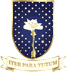
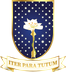
feat: brasão em alta resolução, selo no rodapé e crédito de autoria

diff --git a/src/styles/base.css b/src/styles/base.css
@@ -2094,6 +2094,55 @@ button {
   color: var(--tinta-suave);
 }
 
+/*
+ * O selo do rodapé: o brasão em silhueta, fechando a página.
+ *
+ * Duas artes, e não uma pintada por CSS: o Perez mandou o branco e o preto
+ * prontos, e o desenho deles não é o colorido dessaturado — a silhueta tem
+ * traço próprio. O preto serve o tema claro e o branco o escuro.
+ *
+ * A troca segue os mesmos seletores do tema.css, e não só a consulta de
+ * mídia: o site tem botão de tema, e quem o usa para forçar o claro num
+ * sistema escuro receberia um selo branco sobre papel claro, invisível.
+ *
+ * Como fundo, o navegador baixa só a arte do tema em uso. Como <img>, viriam
+ * as duas.
+ */
+.rodape__selo {
+  display: block;
+  width: 3.75rem;
+  /* a proporção do arquivo, 200x217 */
+  aspect-ratio: 200 / 217;
+  margin: 2rem auto 0;
+  background: center / contain no-repeat url("/brasao-escuro-7569753f.webp");
+  opacity: 0.4;
+}
+
+@media (prefers-color-scheme: dark) {
+  :root:not([data-theme="light"]) .rodape__selo {
+    background-image: url("/brasao-claro-7c64c1c8.webp");
+    opacity: 0.32;
+  }
+}
+
+:root[data-theme="dark"] .rodape__selo {
+  background-image: url("/brasao-claro-7c64c1c8.webp");
+  opacity: 0.32;
+}
+
+/*
+ * O crédito de quem fez o site. Última linha, menor que tudo, e sem o
+ * dourado da marca: é informação de colofão, não assinatura de dono.
+ */
+.rodape__credito {
+  margin-top: 1.1rem;
+  font-family: var(--sem-serifa);
+  font-size: 0.68rem;
+  letter-spacing: 0.02em;
+  color: var(--tinta-suave);
+  opacity: 0.8;
+}
+
 /* ---------------- telas maiores ---------------- */
 
 @media (min-width: 46rem) {
@@ -3748,9 +3797,9 @@ button {
  * direita — os quatro textos inteiros passam bem da altura dele, e sem isso a
  * quarta caixa ficava longe do brasão de onde a linha sai.
  *
- * O tamanho tem teto honesto: o arquivo tem 331px de largura, e o brasão aqui
- * vai a 24rem. Em tela comum isso já é ampliar 1,16 vez; em tela de alta
- * densidade, mais de duas. Um original maior, ou vetorial, resolveria.
+ * O tamanho tem teto honesto: o arquivo tem 572px de largura, e o brasão aqui
+ * vai a 24rem, ou 480px na raiz de 20px. Em tela comum sobra; em tela de alta
+ * densidade ainda falta, porque 2x pediriam 960. Só o vetorial resolve de vez.
  */
 @media (min-width: 56rem) {
   .brasao-comentado {

diff --git a/src/components/Rodape.tsx b/src/components/Rodape.tsx
@@ -5,10 +5,12 @@ export function Rodape({
   paragrafos,
   marca,
   lema,
+  credito,
 }: {
   paragrafos: string[];
   marca: string;
   lema: string;
+  credito?: string;
 }) {
   return (
     <footer className="rodape">
@@ -20,12 +22,29 @@ export function Rodape({
           <TextoRico texto={paragrafo} />
         </p>
       ))}
+      {/*
+        O selo que fecha a página, em silhueta, como a marca do impressor no
+        fim de um livro. É o único lugar do site onde o brasão aparece em uma
+        cor só: aqui ele assina, não identifica, e a versão colorida já está
+        no alto de toda página.
+
+        Decorativo de verdade, então vai como fundo e fica fora da árvore de
+        acessibilidade: quem usa leitor de tela já ouviu o brasão no
+        cabeçalho, e ouvi-lo de novo no rodapé seria repetição. Fundo também
+        é o que faz o navegador baixar só a versão do tema em uso.
+      */}
+      <span className="rodape__selo" aria-hidden="true" />
       <p className="rodape__marca">
         {marca}
         <span className="rodape__lema" lang="la">
           {lema}
         </span>
       </p>
+      {credito && (
+        <p className="rodape__credito">
+          <TextoRico texto={credito} />
+        </p>
+      )}
     </footer>
   );
 }

diff --git a/src/components/Brasao.tsx b/src/components/Brasao.tsx
@@ -6,10 +6,10 @@
  * ícone da aba, que é onde 66px bastam.
  */
 const TAMANHOS = {
-  barra: { classe: "barra__brasao", arquivo: "/brasao-b7c45edf.webp", largura: 331, altura: 360 },
-  cabecalho: { classe: "cabecalho__brasao", arquivo: "/brasao-b7c45edf.webp", largura: 331, altura: 360 },
-  pagina: { classe: "cabecalho__brasao cabecalho__brasao--pagina", arquivo: "/brasao-b7c45edf.webp", largura: 331, altura: 360 },
-  menu: { classe: "menu__brasao", arquivo: "/brasao-b7c45edf.webp", largura: 331, altura: 360 },
+  barra: { classe: "barra__brasao", arquivo: "/brasao-9ea57f61.webp", largura: 572, altura: 620 },
+  cabecalho: { classe: "cabecalho__brasao", arquivo: "/brasao-9ea57f61.webp", largura: 572, altura: 620 },
+  pagina: { classe: "cabecalho__brasao cabecalho__brasao--pagina", arquivo: "/brasao-9ea57f61.webp", largura: 572, altura: 620 },
+  menu: { classe: "menu__brasao", arquivo: "/brasao-9ea57f61.webp", largura: 572, altura: 620 },
 } as const;
 
 /** Brasão do Apostolado: campo estrelado, lírio e o lema Iter para tutum. */

diff --git a/src/data/tipos.ts b/src/data/tipos.ts
@@ -170,6 +170,14 @@ export interface Site {
   marcaCurta: string;
   lema: string;
   rodape: string[];
+  /**
+   * Quem fez o site, numa linha, no fim do rodapé.
+   *
+   * Fica aqui, e não no código, porque é texto do site: o Apostolado pode
+   * reescrevê-lo pelo painel sem pedir nada a ninguém. Aceita a mesma
+   * marcação do resto, então o nome pode levar a algum lugar.
+   */
+  credito?: string;
   agendas: Agenda[];
   /** Os retratos da lateral das páginas, no computador. */
   lateral?: Retrato[];

diff --git a/src/components/BrasaoComentado.tsx b/src/components/BrasaoComentado.tsx
@@ -148,10 +148,10 @@ export function BrasaoComentado({ partes }: { partes: ParteDoBrasao[] }) {
         >
           <img
             className="brasao-comentado__imagem"
-            src="/brasao-b7c45edf.webp"
+            src="/brasao-9ea57f61.webp"
             alt="Brasão do Apostolado Nossa Senhora das Neves"
-            width={331}
-            height={360}
+            width={572}
+            height={620}
           />
           {partes.map((parte, i) => (
             <button

diff --git a/src/components/Moldura.tsx b/src/components/Moldura.tsx
@@ -104,7 +104,12 @@ export function Moldura({
         {rota?.padrao !== "/" && <Lateral />}
         <Trilha rota={rota} atual={titulo} />
         {children}
-        <Rodape paragrafos={site.rodape} marca={site.marca} lema={site.lema} />
+        <Rodape
+          paragrafos={site.rodape}
+          marca={site.marca}
+          lema={site.lema}
+          credito={site.credito}
+        />
       </main>
 
       <MenuPrincipal

diff --git a/ferramentas/brasao/gerar.py b/ferramentas/brasao/gerar.py
@@ -1,0 +1,97 @@
+#!/usr/bin/env python3
+# -*- coding: utf-8 -*-
+"""
+Gera os arquivos do brasão a partir dos originais que o Perez mandou.
+
+    python3 ferramentas/brasao/gerar.py <colorido.png> <branco.png> <preto.png>
+
+Três versões, e cada uma tem um lugar:
+
+- **colorido** — a marca do site. Barra, cabeçalho de toda página, menu e a
+  página do brasão, que é onde ele aparece maior.
+- **branco** e **preto** — o selo do rodapé, em silhueta. O branco serve o
+  tema escuro e o preto o claro; quem troca é o CSS, pelo mesmo seletor que
+  o `tema.css` usa, para acompanhar também o botão de tema e não só a
+  preferência do sistema.
+
+Os três originais vêm numa folha A4 com muita margem. O gerador recorta pela
+caixa do alfa, que é o desenho de verdade, e não por medida escolhida a olho.
+
+O nome leva a impressão do conteúdo, como as estampas: o cache é de um ano,
+e trocar a imagem tem de trocar o nome, senão o navegador de quem já visitou
+continua com a antiga.
+"""
+import hashlib, os, sys
+from PIL import Image
+
+AQUI = os.path.dirname(os.path.abspath(__file__))
+RAIZ = os.path.dirname(os.path.dirname(AQUI))
+PUBLICO = os.path.join(RAIZ, "public")
+
+# O selo do rodapé vai a 3,75rem. O pior caso real é o celular a 3x, onde a
+# raiz mede 17px: 3,75rem dão 64, e 3x pedem 192. No computador a raiz chega
+# a 20px, mas ali a densidade é 2x e o pedido cai para 150. Então 200 cobre.
+#
+# Não adianta comprimir mais: o peso está no alfa do campo estrelado, e sem
+# perdas mede o mesmo que com. Medido, 280px custavam 19 KB e 200px custam 12.
+LARGURA_DO_SELO = 200
+
+
+def recortar(caminho):
+    """O desenho, sem a margem da folha. A caixa vem do alfa."""
+    im = Image.open(caminho).convert("RGBA")
+    caixa = im.getchannel("A").getbbox()
+    if caixa is None:
+        raise SystemExit(f"{caminho}: imagem sem nada opaco")
+    return im.crop(caixa)
+
+
+def gravar(im, prefixo, formato="WEBP", **opcoes):
+    impressao = hashlib.sha1(im.tobytes()).hexdigest()[:8]
+    extensao = "webp" if formato == "WEBP" else "png"
+    nome = f"{prefixo}-{impressao}.{extensao}"
+    im.save(os.path.join(PUBLICO, nome), formato, **opcoes)
+    print(f"  public/{nome}  {im.width}x{im.height}  "
+          f"{os.path.getsize(os.path.join(PUBLICO, nome)) // 1024} KB")
+    return nome
+
+
+def reduzir(im, largura):
+    if im.width <= largura:
+        return im
+    return im.resize((largura, round(im.height * largura / im.width)), Image.LANCZOS)
+
+
+def main(colorido, branco, preto):
+    saida = {}
+
+    print("colorido (barra, cabeçalho, menu, página do brasão):")
+    cor = recortar(colorido)
+    saida["colorido"] = gravar(cor, "brasao", quality=90, method=6)
+
+    # O PNG serve o ícone de toque do iOS e o gerador das folhas de rosto,
+    # que precisa de alfa de verdade e não lê WebP tão bem.
+    cor.save(os.path.join(PUBLICO, "brasao.png"), "PNG", optimize=True)
+    print(f"  public/brasao.png  {cor.width}x{cor.height}  "
+          f"{os.path.getsize(os.path.join(PUBLICO, 'brasao.png')) // 1024} KB")
+
+    # Ícone da aba: 66px bastam, e é o único lugar onde bastam.
+    pequeno = reduzir(cor, 66)
+    pequeno.save(os.path.join(PUBLICO, "brasao-pequeno.png"), "PNG", optimize=True)
+    print(f"  public/brasao-pequeno.png  {pequeno.width}x{pequeno.height}")
+
+    print("selo do rodapé:")
+    for nome, caminho in (("claro", branco), ("escuro", preto)):
+        im = reduzir(recortar(caminho), LARGURA_DO_SELO)
+        saida[nome] = gravar(im, f"brasao-{nome}", quality=88, method=6)
+
+    print("\nCaminhos para o código:")
+    for chave, nome in saida.items():
+        print(f"  {chave:9s} /{nome}")
+    return saida
+
+
+if __name__ == "__main__":
+    if len(sys.argv) != 4:
+        raise SystemExit(__doc__)
+    main(*sys.argv[1:])
